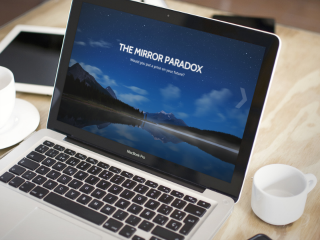
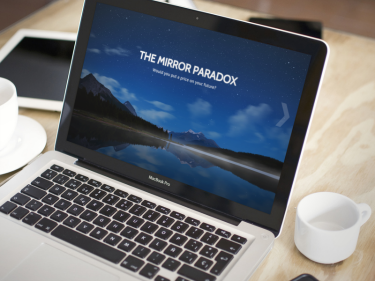
slide two dimensions set

diff --git a/index.html b/index.html
@@ -43,7 +43,7 @@
       <div class="container-fluid portfolio">
         
         <div class="row-fluid">
-          <h2 class="text-center portfolio-header">Recent Projects</h2>
+          <h2 class="text-center portfolio-header">Recent Work</h2>
         </div>
 
         <!-- carousel -->
@@ -58,11 +58,6 @@
                     <div class="ca-icon">                      
                       <a class="screenshot-button" href="http://www.themirrorparadox.com/" target="_blank">A Closer Look <span class="glyphicon glyphicon-new-window"></span></a>
                     </div>
-                    <h3>The Mirror Paradox</h3>
-                    <h4>
-                      <span class="ca-quote">&ldquo;</span>
-                      <span>Would you put a price on your future?</span>
-                    </h4>
                       <a href="#" class="ca-more">more...</a>
                   </div>
                   <div class="ca-content-wrapper">
@@ -71,14 +66,8 @@
                       <a href="#" class="ca-close">close</a>
                       <div class="ca-content-text">
                         <p>The Mirror Paradox reflects a user's willingness to put a price tag on their future.</p>
-                        <p>Technology used: Rails 4.0.0, HTML5 + CSS3, MongoDB 2.4, Chart.js, jQuery, AJAX</p>
+                        <p>Technologies: Rails 4.0.0, HTML5 + CSS3, MongoDB 2.4, Chart.js, jQuery, AJAX</p>
                       </div>
-<!--                       <ul>
-                        <li><a href="#">Read more</a></li>
-                        <li><a href="#">Share this</a></li>
-                        <li><a href="#">Become a member</a></li>
-                        <li><a href="#">Donate</a></li>
-                      </ul> -->
                     </div>
                   </div>
                 </div>
@@ -89,11 +78,6 @@
                     <div class="ca-icon">
                       <a class="screenshot-button" href="http://crowded-lands.herokuapp.com/" target="_blank">A Closer Look <span class="glyphicon glyphicon-new-window"></span></a>
                     </div>
-                    <h3>Crowded Lands</h3>
-                    <h4>
-                      <span class="ca-quote">&ldquo;</span>
-                      <span>Visualize the population density of your homeland.</span>
-                    </h4>
                       <a href="#" class="ca-more">more...</a>
                   </div>
                   <div class="ca-content-wrapper">
@@ -102,14 +86,8 @@
                       <a href="#" class="ca-close">close</a>
                       <div class="ca-content-text">
                         <p>Crowded Lands visualizes the population density of every country in the world. Enter a country's name, and experience the visual representation of its population density per square mile.</p>
-                        <p>Technology used: Rails 4.0.0, HTML5 + CSS3, MongoDB 2.4, d3.js, jQuery, Nokogiri</p>
+                        <p>Technologies: Rails 4.0.0, HTML5 + CSS3, MongoDB 2.4, d3.js, jQuery, Nokogiri</p>
                       </div>
-<!--                       <ul>
-                        <li><a href="#">Read more</a></li>
-                        <li><a href="#">Share this</a></li>
-                        <li><a href="#">Become a member</a></li>
-                        <li><a href="#">Donate</a></li>
-                      </ul> -->
                     </div>
                   </div>
                 </div>
@@ -120,11 +98,6 @@
                     <div class="ca-icon">                     
                       <a class="screenshot-button" href="http://tailored-tales.herokuapp.com/" target="_blank">A Closer Look <span class="glyphicon glyphicon-new-window"></span></a>
                     </div>
-                    <h3>Tailored Tales</h3>
-                    <h4>
-                      <span class="ca-quote">&ldquo;</span>
-                      <span>An interactive reading experience.</span>
-                    </h4>
                       <a href="#" class="ca-more">more...</a>
                   </div>
                   <div class="ca-content-wrapper">
@@ -133,14 +106,8 @@
                       <a href="#" class="ca-close">close</a>
                       <div class="ca-content-text">
                         <p>Tailored Tales engages users in an interactive literary experience. Geared towards children, it allows them to pick a timeless classic like <em>The Three Little Pigs</em>, choose what they want their characters to look like, and click and drag their selections wherever they desire on the flipbook provided.</p>
-                        <p>Technology used: Rails 3.2.13, HTML5 + CSS3, PostgreSQL, jQuery, Turn.js, Kinetic.js</p>
+                        <p>Technologies: Rails 3.2.13, HTML5 + CSS3, PostgreSQL, jQuery, Turn.js, Kinetic.js</p>
                       </div>
-<!--                       <ul>
-                        <li><a href="#">Read more</a></li>
-                        <li><a href="#">Share this</a></li>
-                        <li><a href="#">Become a member</a></li>
-                        <li><a href="#">Donate</a></li>
-                      </ul> -->
                     </div>
                   </div>
                 </div> 
@@ -151,11 +118,6 @@
                     <div class="ca-icon">                      
                       <a class="screenshot-button" href="http://afflatus.herokuapp.com/" target="_blank">A Closer Look <span class="glyphicon glyphicon-new-window"></span></a>
                     </div>
-                    <h3>Afflatus</h3>
-                    <h4>
-                      <span class="ca-quote">&ldquo;</span>
-                      <span>Obliterate writer's block with photography and classical music.</span>
-                    </h4>
                       <a href="#" class="ca-more">more...</a>
                   </div>
                   <div class="ca-content-wrapper">
@@ -163,15 +125,9 @@
                       <h6>Afflatus</h6>
                       <a href="#" class="ca-close">close</a>
                       <div class="ca-content-text">
-                        <p>Afflatus is a web application for writer's seeking inspiration. It obliterates writer's block by providing artistic prompts in the forms of photography and classical music. Writers can save their creations to their profiles for other users to see.</p>
-                        <p>Technology Used: Rails 3.2.13, HTML5 + CSS3, PostgreSQL, Devise, Flickr API, Soundcloud API</p>
+                        <p>Afflatus is a web application for writers seeking inspiration. It obliterates writer's block by providing artistic prompts in the forms of photography and classical music. Writers can save their creations to their profiles for other users to see.</p>
+                        <p>Technologies: Rails 3.2.13, HTML5 + CSS3, PostgreSQL, Devise, Flickr API, Soundcloud API</p>
                       </div>
-<!--                       <ul>
-                        <li><a href="#">Read more</a></li>
-                        <li><a href="#">Share this</a></li>
-                        <li><a href="#">Become a member</a></li>
-                        <li><a href="#">Donate</a></li>
-                      </ul> -->
                     </div>
                   </div>
                 </div>
@@ -190,14 +146,16 @@
           <h2 class="col-lg-12 text-center about-header">About Me</h2>
           
           <section class="col-lg-6 col-lg-offset-3 bio">
-            <h3 class="bio-header">Hello there.</h3>
+            <h3 class="bio-intro"><strong>Hello there.<strong></h3>
             <p class="bio-text">
-              I'm Rudy Crespo, a full-stack web developer from New York City bent on making the digital universe a more pulchritudinous place one website at a time. With Ruby on Rails as my dynamic and trustworthy sidekick, I can spin magic in the back-end and create transcendent user interfaces on the front-end.
-              <br>
-              <br>
+              I'm Rudy Crespo, a full-stack web developer from New York City bent on making the digital universe a more pulchritudinous place one website at a time.
+            </p>
+
+            <p class="bio-text">
               In 2012, I graduated from Fordham University with a B.A. in Philosophy. A year later, I had the pleasure of attending General Assembly's Web Development Immersive, where I learned the tricks of this marvelous trade.
-              <br>
-              <br> 
+            </p>
+
+            <p class="bio-text">   
               In my free time I enjoy gormandizing, guzzling coffee, questioning reality, frequenting art galleries, pumping iron, playing basketball, watching indie movies and quirky videos on Vimeo, reading, writing, and spending time with my family. 
             </p>
           </section>

diff --git a/stylesheets/contentcarousel.css b/stylesheets/contentcarousel.css
@@ -4,8 +4,8 @@
 .ca-container{
 	position:relative;
 	margin:25px auto 20px auto;
-	width:990px;
-	height:480px;
+	width:1120px;
+	height:281px;
 }
 .ca-wrapper{
 	width:100%;
@@ -15,22 +15,29 @@
 .ca-item{
 	position:relative;
 	float:left;
-	width:330px;
+	width:375px;
 	height:100%;
 	text-align:center;
 }
 .ca-more{
 	position: absolute;
-	bottom: 10px;
+	bottom: 0px;
 	right:0px;
 	padding:4px 15px;
-	font-weight:bold;
-	background: #ccbda2;
+	background: #ed8d6c;
 	text-align:center;
 	color: white;
 	font-family: "Open Sans", sans-serif;
-	font-style:italic;
+	font-weight: 400;
+	font-size: .8em;
+	font-style: italic;
+	text-transform: uppercase;
 	text-shadow:1px 1px 1px #897c63;
+	opacity: 0;
+}
+
+.ca-item-main:hover .ca-more {
+	opacity: 1;
 }
 .ca-close{
 	position:absolute;
@@ -63,10 +70,9 @@
 	z-index: 2;
 }
 .ca-icon{
-	width:320px;
-	height:240px;
+	width:375px;
+	height:281px;
 	position:relative;
-	opacity: .6;
 	margin:0 auto;
 	background:transparent url(../images/mirrorparadox-placeit.png) no-repeat center center;
 	-webkit-transition: all 0.15s ease-in-out;
@@ -76,7 +82,7 @@
 }
 
 .ca-item-main:hover .ca-icon {
-	opacity: 1;
+	opacity: .7;
 }
 
 .ca-item-2 .ca-icon{
@@ -133,7 +139,7 @@
 	font-style:italic;
 	font-size:12px;
 	text-align:left;
-	border-left:10px solid #b0ccc6;
+	/*border-left:10px solid #b0ccc6;*/
 	padding-left:10px;
 	line-height:24px;
 	margin:10px;
@@ -153,7 +159,7 @@
 }
 
 .ca-content-wrapper{
-	background:#b0ccc6;
+	background:#183355;
 	position:absolute;
 	width:0px; /* expands to width of the wrapper minus 1 element */
 	height:470px;
@@ -165,10 +171,10 @@
 .ca-content{
 	width:660px;
 	overflow:hidden;
+	color: #fff;
 }
 .ca-content-text{
 	font-size: 14px;
-	/*font-style: italic;*/
 	font-family: "Open Sans", sans-serif;
 	font-weight: 400;
 	margin:10px 20px;
@@ -182,11 +188,9 @@
 	margin:25px 20px 0px 35px;
 	font-size:32px;
 	padding-bottom:5px;
-	color:#000;
 	font-family: 'Open Sans', sans-serif;
 	font-weight: 400;
-	color:#60817a;
-	border-bottom:2px solid #99bcb4;
+	border-bottom:2px solid #fff;
 	text-shadow: 1px 1px 1px #99BCB4;
 }
 .ca-content ul{

diff --git a/stylesheets/styles.css b/stylesheets/styles.css
@@ -1,4 +1,4 @@
-@import url(http://fonts.googleapis.com/css?family=Alegreya:700|Open+Sans:400,700);
+@import url(http://fonts.googleapis.com/css?family=Alegreya:700|Open+Sans:400,700,800);
 
 html,body {
   height:100%;
@@ -7,10 +7,10 @@ html,body {
 
 h2 {
   font-family: 'Open Sans', sans-serif;
-  font-weight: 700;
+  font-weight: 800;
   text-transform: uppercase;
   letter-spacing: .1em;
-  font-size: 2em;
+  font-size: 3em;
 }
 
 p {
@@ -162,9 +162,13 @@ a:hover{
   background-size: cover;
 }
 
+.portfolio {
+  margin-top: 5%;
+}
+
 .portfolio-header {
-  color: #212a45;
-  margin-bottom: 20px;
+  color: #183355;
+  margin-bottom: 80px;
 }
 
 .work {
@@ -208,16 +212,33 @@ letter-spacing: .05em;
 
 /*about me*/
 #slide3{
-  background-color: #212a45;
+  background-color: #152732;
   -webkit-background-size: cover;
   -moz-background-size: cover;
   -o-background-size: cover;
   background-size: cover;
+}
+
+.about-me {
   color: #fff;
+  line-height: 32.5px;
+}
+
+.about-header {
+  margin-top: 3%;
+}
+
+.bio {
+  margin-top: 2%;
+}
+
+.bio-intro {
+  font-size: 1.5em;
 }
 
 .bio-text {
-  font-size: 1.5em;
+  font-size: 1.25em;
+  margin-bottom: 2em;
 }
 
 /*end about me*/
